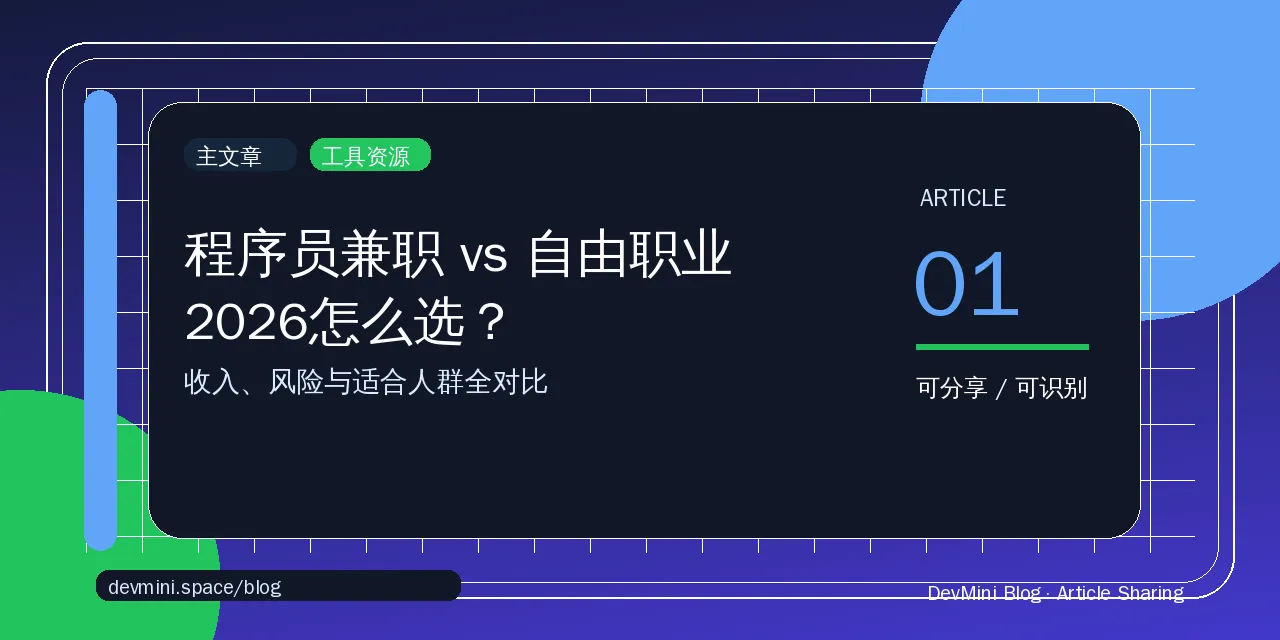
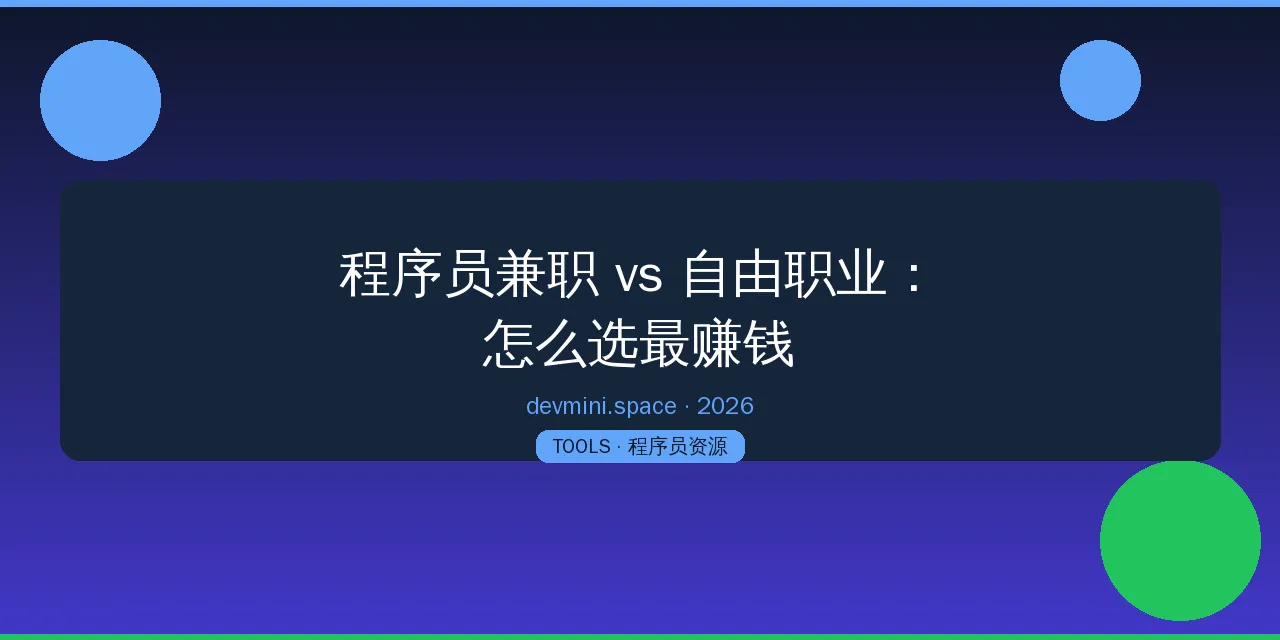
feat: add SEO post - programmer-part-time-vs-freelance-guide-2026 (WebP OG)

diff --git a/content/posts/programmer-part-time-vs-freelance-guide-2026.md b/content/posts/programmer-part-time-vs-freelance-guide-2026.md
@@ -1,65 +1,67 @@
 ---
-title: "程序员兼职 vs 自由职业：2026怎么选？收入、风险与适合人群全对比"
-date: 2026-06-06
+title: "程序员兼职 vs 自由职业：2026年怎么选最赚钱"
+date: 2026-06-27
 draft: false
 author: "白王_"
-tags: ["程序员兼职", "自由职业", "远程工作", "接单平台", "副业"]
+tags: ["程序员兼职", "自由职业", "远程工作", "副业赚钱", "程序员接单"]
 categories: ["资源推荐"]
-description: "程序员兼职和自由职业到底有什么区别？本文从收入模式、时间自由度、风险系数三个维度做详细对比，帮你找到最适合自己的接单方式，附带优质平台推荐。"
+description: "程序员兼职和自由职业到底怎么选？本文从收入模式、时间自由度、风险等级三个维度深度对比，帮你找到最适合自己的搞钱路径，附实用接单平台推荐。"
 slug: "programmer-part-time-vs-freelance-guide-2026"
-images: ["og/programmer-part-time-vs-freelance-guide-2026.png"]
-thumbnail: "og/programmer-part-time-vs-freelance-guide-2026.png"
+images: ["og/programmer-part-time-vs-freelance-guide-2026.webp"]
+thumbnail: "og/programmer-part-time-vs-freelance-guide-2026.webp"
 ---
 
 ## 程序员兼职和自由职业的核心区别
 
-程序员兼职是在保留主业的前提下利用空闲时间接项目赚钱，自由职业则是完全脱离雇佣关系、以个人身份独立承接业务。两者的核心差异在于收入稳定性：兼职有工资兜底、接单收入为增量，自由职业全靠项目收入、波动更大但天花板更高。2026年远程协作工具已经非常成熟，无论选择哪条路，地域限制都不是问题，关键在于你对风险的承受能力和当前的人生阶段。
+程序员兼职是在保留全职工作的前提下，利用业余时间接项目赚外快；自由职业则是辞掉工作，完全靠接单或产品收入为生。两者最大的区别在于**收入稳定性**——兼职有工资兜底，自由职业收入全靠自己。2026年远程办公普及后，程序员兼职和自由职业的边界越来越模糊，但选择哪条路，关键看你的风险承受能力和财务准备。
 
 ## 背景与现状
 
-- **市场需求持续增长**：中小企业数字化转型加速，大量项目预算不足以请全职团队，转而寻找程序员兼职或自由职业者合作，尤其在小程序开发、数据处理、AI应用集成等领域需求旺盛。
-- **平台生态日趋完善**：国内外接单平台已经形成比较完整的服务体系，从项目发布、合同签署到资金托管、纠纷仲裁都有标准化流程，降低了个人接单的信任成本。
-- **远程办公常态化**：后疫情时代企业对远程协作的接受度大幅提升，程序员兼职和自由职业在工作方式上已经没有太大区别，差异主要体现在税务处理、社保缴纳和客户获取策略上。
+- **远程岗位增长**：2026年国内远程开发岗位同比增长40%以上，Stack Overflow调查显示超60%的开发者有兼职或自由职业经历
+- **平台生态成熟**：程序员接单平台从早期的猪八戒一家独大，发展到如今国内外十几个主流平台并存，[程序员免费接单平台汇总](/posts/programmer-freelance-platforms-guide-2026/)已覆盖详细清单
+- **AI工具加持**：Cursor、Copilot等AI编程助手让个人产能提升2-3倍，自由职业者的单位时间收入显著提高
 
-## 为什么值得选：三种路径各有优势
+## 为什么值得推荐：三条路各有优势
 
-### 兼职：稳中求进，试错成本最低
+### 兼职：低风险试水，工资兜底
 
-程序员兼职的最大优势是主业收入兜底。你可以利用晚上和周末接1-2个小项目，月增收3000-8000元完全可行。不用操心社保断缴、不用焦虑下个月有没有收入。适合刚工作1-3年、技术栈还在积累期的程序员，用兼职项目练手、拓宽技术面，同时验证自己是否适合独立接单。
+兼职最大的优势是**零风险**。白天上班拿工资，晚上接私活赚外快，即使项目黄了也不影响生活。适合刚工作1-3年、存款不多的程序员。常见模式包括周末接外包、晚上做技术顾问、写技术文章赚稿费。月均副业收入3000-8000元比较常见，做得好的能过万。
 
-### 自由职业：收入上限高，时间完全自主
+### 自由职业：收入天花板高，时间自由
 
-自由职业者的时薪通常是兼职的2-3倍。当你积累了足够的客户资源和口碑后，一个中型项目的报价可以达到2-5万元，相当于兼职半年的增量收入。但前提是你需要有6个月以上的生活储备金，并且能持续获取新客户。适合技术能力成熟、有一定人脉积累、能接受收入波动的3年以上经验开发者。
+自由职业的收入上限远高于兼职。一个成熟的自由开发者，月入2-5万并不罕见，顶级的能做到年入百万。但前提是你得有足够的客户积累和技术口碑。自由职业者需要自己处理税务、社保、客户沟通等事务，本质上是在经营一家「一人公司」。
 
-### 混合模式：先兼职过渡，再逐步自由
+### 混合模式：先兼职过渡，再全职自由
 
-最稳妥的路径是先做程序员兼职，积累客户和作品集，当副业收入稳定达到主业的50%-70%时，再考虑转为全职自由职业。很多成功的独立开发者都是这样过渡的——先用兼职时间搭建自己的服务品牌和复购客户群，等到时机成熟再切换。这种模式的风险最低，适合绝大多数程序员。
+最稳妥的路径是**先兼职验证，再逐步过渡**。用6-12个月的兼职时间建立客户池和口碑，当副业收入连续3个月超过主业工资的80%时，再考虑辞职做自由职业。这条路径风险最低，成功率最高。
 
 ## 入口推荐
 
-无论你选择兼职还是自由职业，找到靠谱的接单渠道是第一步。推荐到 [DevMini 工具资源站](https://pan.devmini.space/tools/) 查看最新的程序员接单平台汇总，包含国内外主流平台的费率对比、适合人群分析和入驻指南，帮你快速筛选出最匹配的平台。
+无论你选哪条路，第一步都是找到靠谱的接单渠道。[pan.devmini.space/tools/](https://pan.devmini.space/tools/) 整理了国内外主流程序员接单平台，包括国内的猪八戒、程序员客栈、开源众包，以及国外的Upwork、Toptal、Fiverr等，每个平台都有入驻门槛、费率和适合人群的详细说明。
 
 ## 使用建议
 
-1. **评估当前状态**：列出你每周能投入的固定时间、可接受的最低时薪、以及是否有3个月以上的应急储备金，这三个指标决定了你适合兼职还是自由职业。
-2. **选择平台并完善资料**：根据技术栈选择2-3个平台注册，花时间打磨个人简介和作品集，这是客户决定是否联系你的关键30秒。
-3. **从小项目起步**：第一个项目选择报价低、周期短的类型，目标是积累5星好评而非高收入，好评数量直接影响后续的接单成功率。
-4. **建立复购关系**：完成项目后主动询问客户是否有后续需求，复购客户的获客成本为零，是自由职业者收入稳定的核心来源。
+**评估阶段**：先盘点自己的技术栈和可支配时间。前端/后端/移动端各有不同的接单渠道偏好，全职白天+晚上兼职建议每周投入不超过10小时。
+
+**起步阶段**：从低价单开始积累评价，前3-5单可以适当让利。在[程序员接单平台](/posts/programmer-freelance-platforms-guide-2026/)中选择1-2个主攻平台，不要撒网太广。
+
+**进阶阶段**：建立个人品牌，通过GitHub项目、技术博客、社交媒体展示实力。老客户转介绍的订单质量远高于平台派单。
 
 ## 常见问题FAQ
 
-**Q1：程序员兼职一个月能赚多少？**
-A1：根据技术栈和投入时间不同，程序员兼职月收入通常在3000-15000元之间。前端/后端开发需求量大，AI应用和数据分析类项目单价更高。每周投入10小时左右，月入5000-8000元是比较现实的预期。
+**Q1：程序员兼职和自由职业哪个更赚钱？**
+A1：短期看兼职更稳（有工资兜底），长期看自由职业天花板更高。自由职业做得好年入50万+很常见，但前6个月收入可能很低。建议先兼职试水，副业收入稳定后再转自由职业。
 
-**Q2：自由职业需要注册公司吗？**
-A2：初期不需要。个人可以通过平台代开发票或使用自然人代开的方式处理税务。当年收入超过一定额度后，注册个体工商户可以享受更低的税率，建议年收入超过20万时再考虑。
+**Q2：做自由职业需要准备多少存款？**
+A2：至少准备6个月生活费作为安全垫。如果在一线城市，建议10-15万存款再辞职。同时提前处理好社保公积金的续缴方案。
 
-**Q3：没有客户资源怎么开始自由职业？**
-A3：从接单平台起步是最直接的方式。先在平台上完成5-10个项目积累评价和案例，同时在技术社区（GitHub、掘金、知乎）持续输出内容建立个人品牌，客户会逐步从被动接单转变为主动找上门。
+**Q3：没有客户资源怎么开始接单？**
+A3：从平台接单起步，国内推荐程序员客栈、猪八戒，国外推荐Upwork。同时在GitHub上维护开源项目、写技术博客，这些都是最好的「简历」。详见[AI提示词资源站汇总](/posts/ai-prompt-resource-sites-guide/)中的个人品牌建设部分。
 
 ## 相关资源
 
-- [程序员免费接单平台汇总：2026版](/posts/programmer-freelance-platforms-2026/) — 主流平台费率与入驻指南
-- [AI写作工具横评：Claude/ChatGPT/Gemini/DeepSeek](/posts/ai-writing-tools-comparison-2026/) — 提升接单效率的AI工具对比
-- [远程工作简历怎么写：程序员求职指南](/posts/remote-work-resume-guide-for-programmers/) — 自由职业者的简历与作品集优化
-- 更多工具资源：[DevMini 工具资源站](https://pan.devmini.space/tools/) | [AI知识库](https://pan.devmini.space/AIknowledge/) | [电子书资源](https://pan.devmini.space/book/)
+- [程序员免费接单平台汇总：2026版](/posts/programmer-freelance-platforms-guide-2026/) — 国内外主流接单平台详细对比
+- [远程工作简历怎么写：程序员求职指南](/posts/remote-work-resume-guide-for-programmers/) — 自由职业者的个人品牌建设
+- 更多工具资源：[pan.devmini.space/tools/](https://pan.devmini.space/tools/)
+- AI知识库：[pan.devmini.space/AIknowledge/](https://pan.devmini.space/AIknowledge/)
+- 免费电子书：[pan.devmini.space/book/](https://pan.devmini.space/book/)
